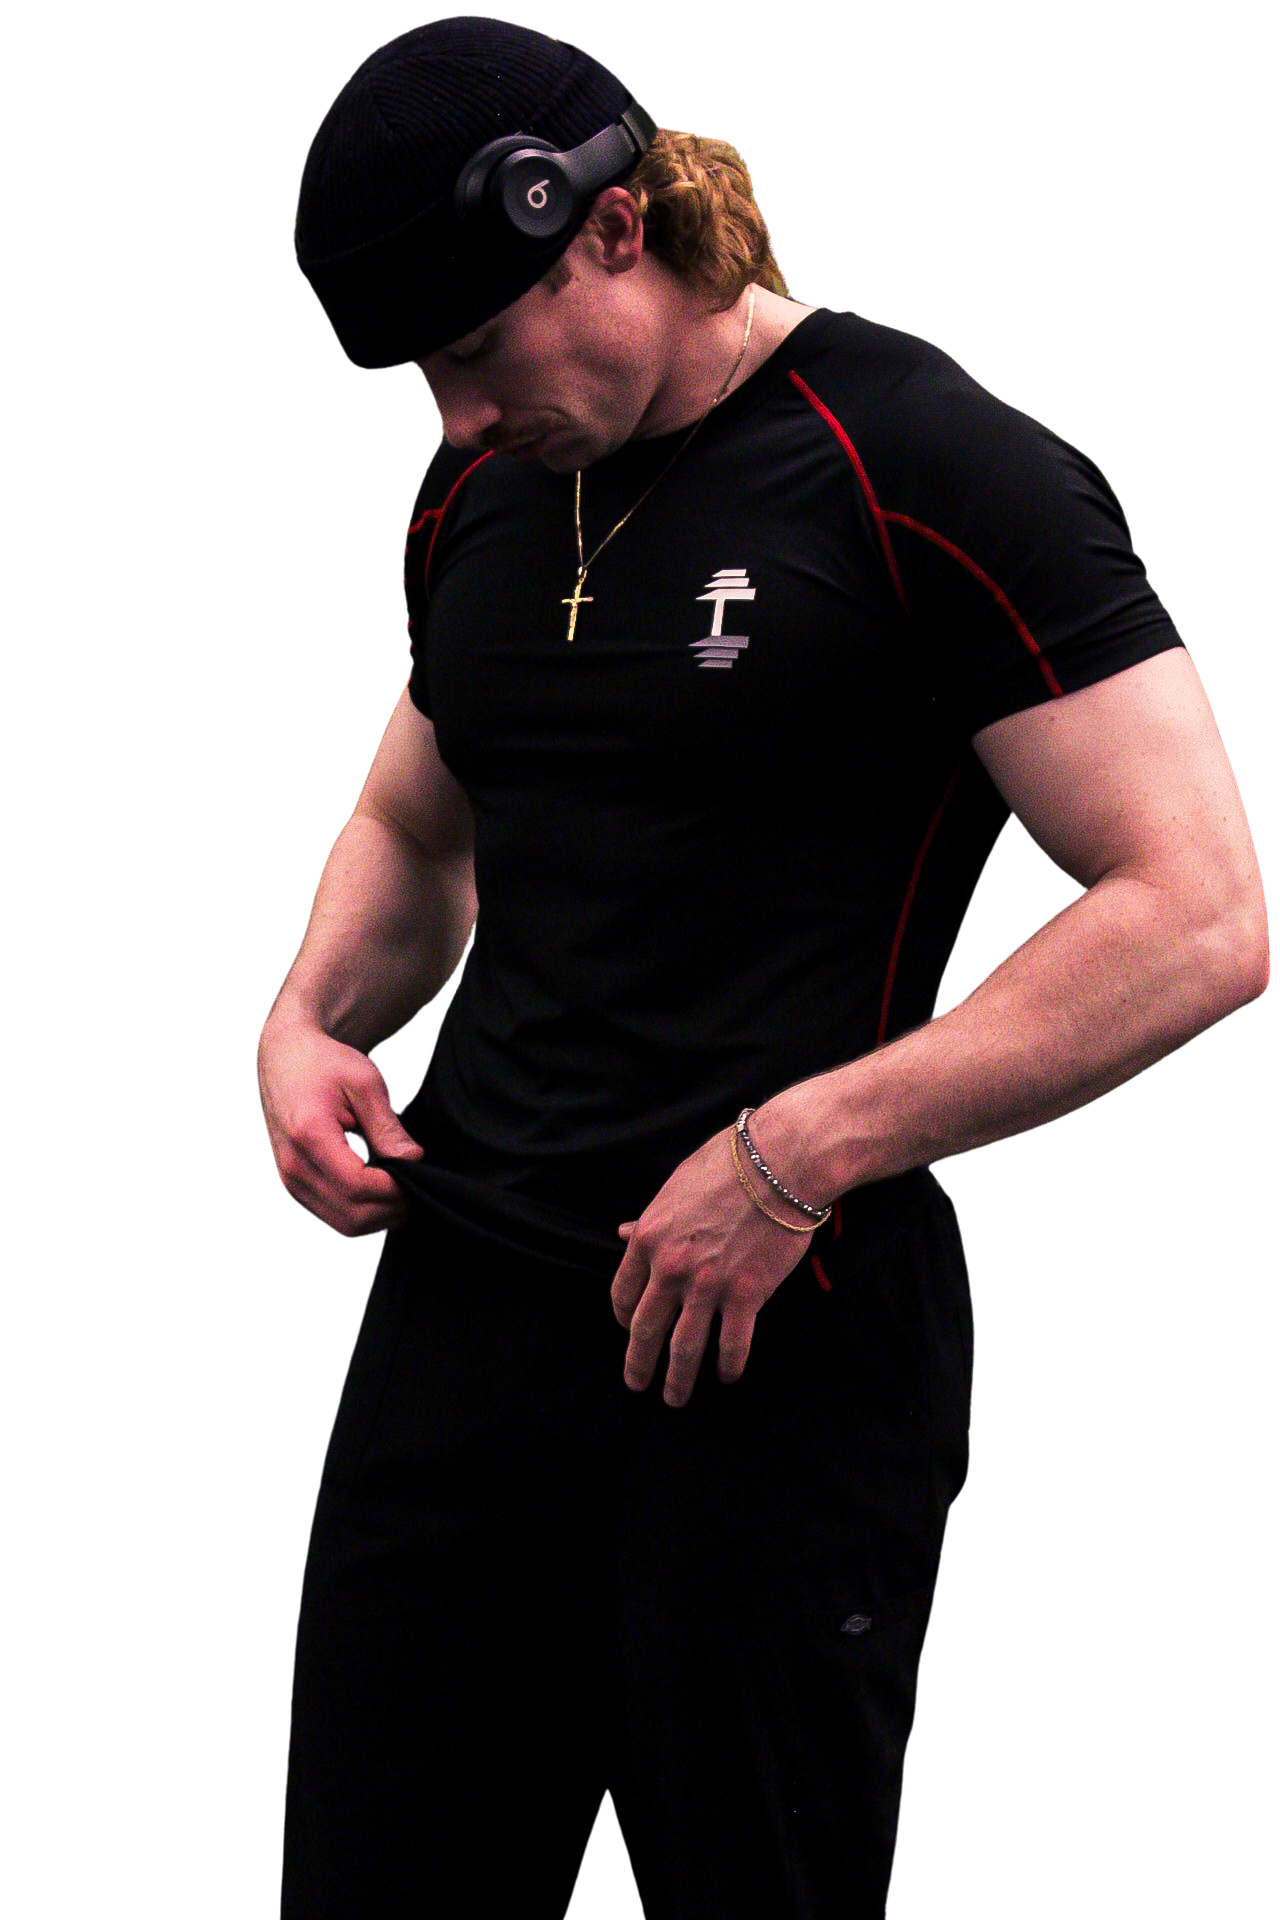
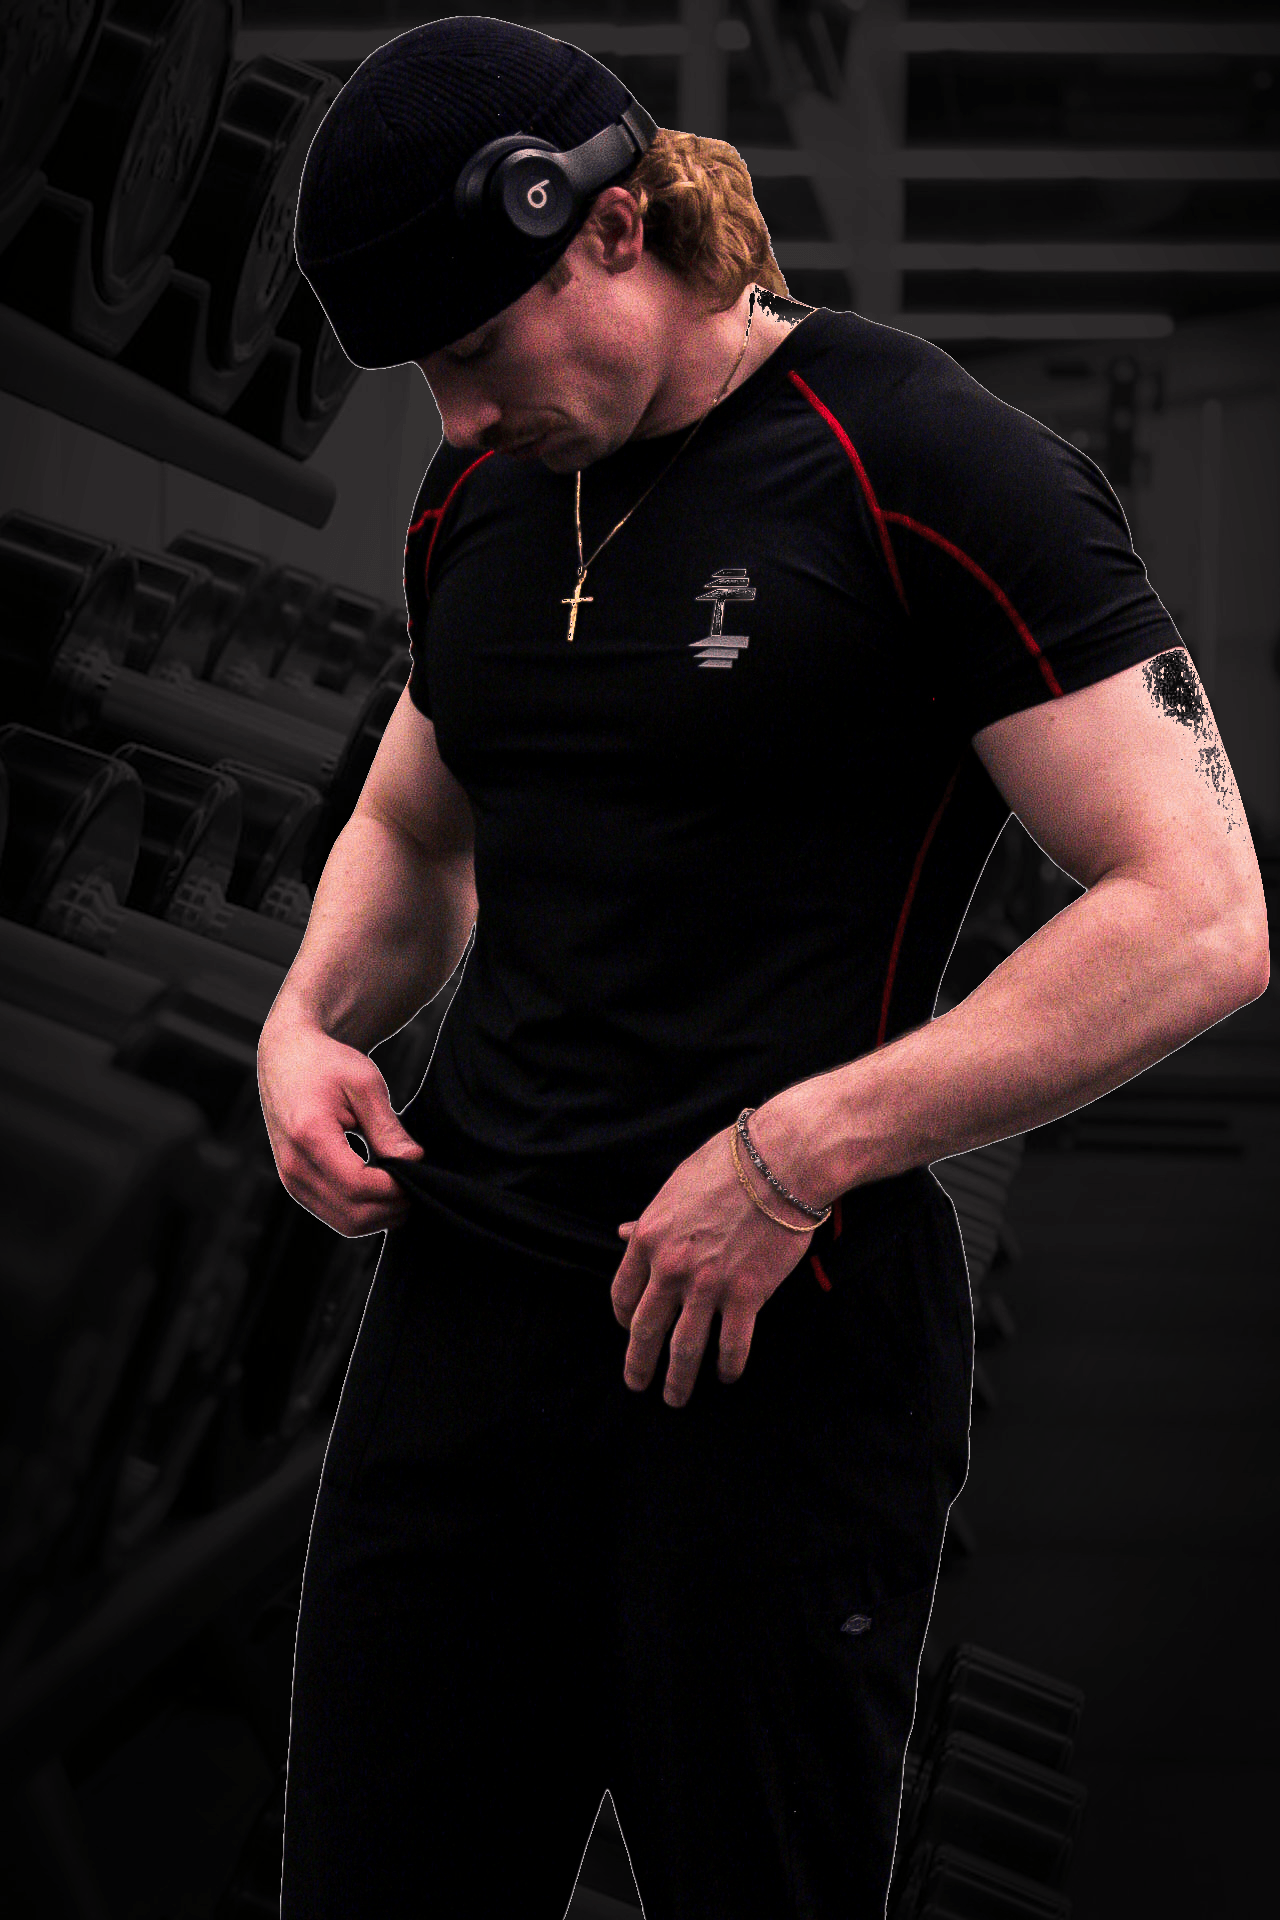
feat: add dark gym background to product photos, update price and description
- Replaced white studio backgrounds with dark gym composite using
  sharp image processing (background removal + gym backdrop)
- Updated price from $59.99 to $39.99
- Changed "embroidered" to "heat transfer" in product description
- Removed imageBlend CSS workarounds (no longer needed with proper backgrounds)

diff --git a/src/app/shop/[slug]/page.tsx b/src/app/shop/[slug]/page.tsx
@@ -69,18 +69,10 @@ export default function ProductDetailPage() {
                 src={product.images[selectedImage]}
                 alt={product.name}
                 fill
-                className={`${product.imageBlend ? 'object-contain object-[center_20%]' : 'object-cover'}`}
+                className="object-cover"
                 sizes="(max-width: 1024px) 100vw, 50vw"
                 priority
               />
-              {product.imageBlend && (
-                <div className="absolute inset-0 pointer-events-none" style={{
-                  background: `
-                    radial-gradient(ellipse at center, transparent 30%, rgba(26,26,26,0.5) 60%, #1A1A1A 85%),
-                    linear-gradient(to bottom, rgba(26,26,26,0.5) 0%, transparent 12%, transparent 80%, rgba(26,26,26,0.7) 100%)
-                  `
-                }} />
-              )}
               {product.badge && (
                 <span className="absolute top-4 left-4 bg-iron-red text-white text-xs font-heading uppercase tracking-wider px-3 py-1 rounded-full">
                   {product.badge}
@@ -93,17 +85,11 @@ export default function ProductDetailPage() {
                 <button
                   key={i}
                   onClick={() => setSelectedImage(i)}
-                  className={`relative w-20 h-20 rounded-lg overflow-hidden border-2 transition-all bg-iron-gray ${
+                  className={`relative w-20 h-20 rounded-lg overflow-hidden border-2 transition-all ${
                     selectedImage === i ? 'border-iron-red' : 'border-transparent opacity-60 hover:opacity-100'
                   }`}
                 >
-                  <Image
-                    src={img}
-                    alt={`${product.name} ${i + 1}`}
-                    fill
-                    className={product.imageBlend ? 'object-cover object-[center_15%]' : 'object-cover'}
-                    sizes="80px"
-                  />
+                  <Image src={img} alt={`${product.name} ${i + 1}`} fill className="object-cover" sizes="80px" />
                 </button>
               ))}
             </div>

diff --git a/src/data/products.ts b/src/data/products.ts
@@ -9,7 +9,6 @@ export interface Product {
   sizes: string[];
   featured: boolean;
   badge?: string;
-  imageBlend?: boolean;
 }
 
 export const products: Product[] = [
@@ -18,8 +17,8 @@ export const products: Product[] = [
     id: '13',
     slug: 'code-1-compression',
     name: 'CODE 1 Compression',
-    price: 59.99,
-    description: 'Engineered for the relentless. The CODE 1 Compression top delivers a second-skin fit with four-way stretch fabric and targeted compression zones that promote blood flow and reduce muscle fatigue. Featuring signature red accent stitching, the embroidered PUREiron logo on the chest, and bold vertical branding down the spine. Built for heavy lifts, intense sessions, and everything in between.',
+    price: 39.99,
+    description: 'Engineered for the relentless. The CODE 1 Compression top delivers a second-skin fit with four-way stretch fabric and targeted compression zones that promote blood flow and reduce muscle fatigue. Featuring signature red accent stitching, the heat transfer PUREiron logo on the chest, and bold vertical branding down the spine. Built for heavy lifts, intense sessions, and everything in between.',
     collection: 'hoodies-tops',
     images: [
       '/products/code1-compression/front.png',
@@ -30,7 +29,6 @@ export const products: Product[] = [
     sizes: ['S', 'M', 'L', 'XL', 'XXL'],
     featured: true,
     badge: 'Best Seller',
-    imageBlend: true,
   },
   // Hoodies & Tops
   {

diff --git a/src/components/ProductCard.tsx b/src/components/ProductCard.tsx
@@ -25,20 +25,9 @@ export default function ProductCard({ product, onQuickView }: ProductCardProps) 
             src={product.images[0]}
             alt={product.name}
             fill
-            className={`transition-transform duration-500 group-hover:scale-110 object-cover ${
-              product.imageBlend ? 'object-[center_15%]' : ''
-            }`}
+            className="object-cover transition-transform duration-500 group-hover:scale-110"
             sizes="(max-width: 640px) 100vw, (max-width: 1024px) 50vw, 25vw"
           />
-          {/* Vignette overlay for studio shots with light backgrounds */}
-          {product.imageBlend && (
-            <div className="absolute inset-0 pointer-events-none" style={{
-              background: `
-                radial-gradient(ellipse at center, transparent 25%, rgba(26,26,26,0.4) 55%, #1A1A1A 80%),
-                linear-gradient(to bottom, rgba(26,26,26,0.6) 0%, transparent 15%, transparent 75%, rgba(26,26,26,0.8) 100%)
-              `
-            }} />
-          )}
           {/* Hover overlay */}
           <div className="absolute inset-0 bg-gradient-to-t from-iron-black/80 via-transparent to-transparent opacity-0 group-hover:opacity-100 transition-opacity duration-300" />
 

diff --git a/src/components/QuickViewModal.tsx b/src/components/QuickViewModal.tsx
@@ -53,18 +53,13 @@ export default function QuickViewModal({ product, onClose }: QuickViewModalProps
           onClick={(e) => e.stopPropagation()}
         >
           {/* Image */}
-          <div className="relative aspect-square bg-iron-gray">
+          <div className="relative aspect-square">
             <Image
               src={product.images[0]}
               alt={product.name}
               fill
-              className={product.imageBlend ? 'object-contain object-[center_20%]' : 'object-cover'}
+              className="object-cover"
             />
-            {product.imageBlend && (
-              <div className="absolute inset-0 pointer-events-none" style={{
-                background: 'radial-gradient(ellipse at center, transparent 30%, rgba(26,26,26,0.5) 60%, #1A1A1A 85%)'
-              }} />
-            )}
           </div>
 
           {/* Info */}
